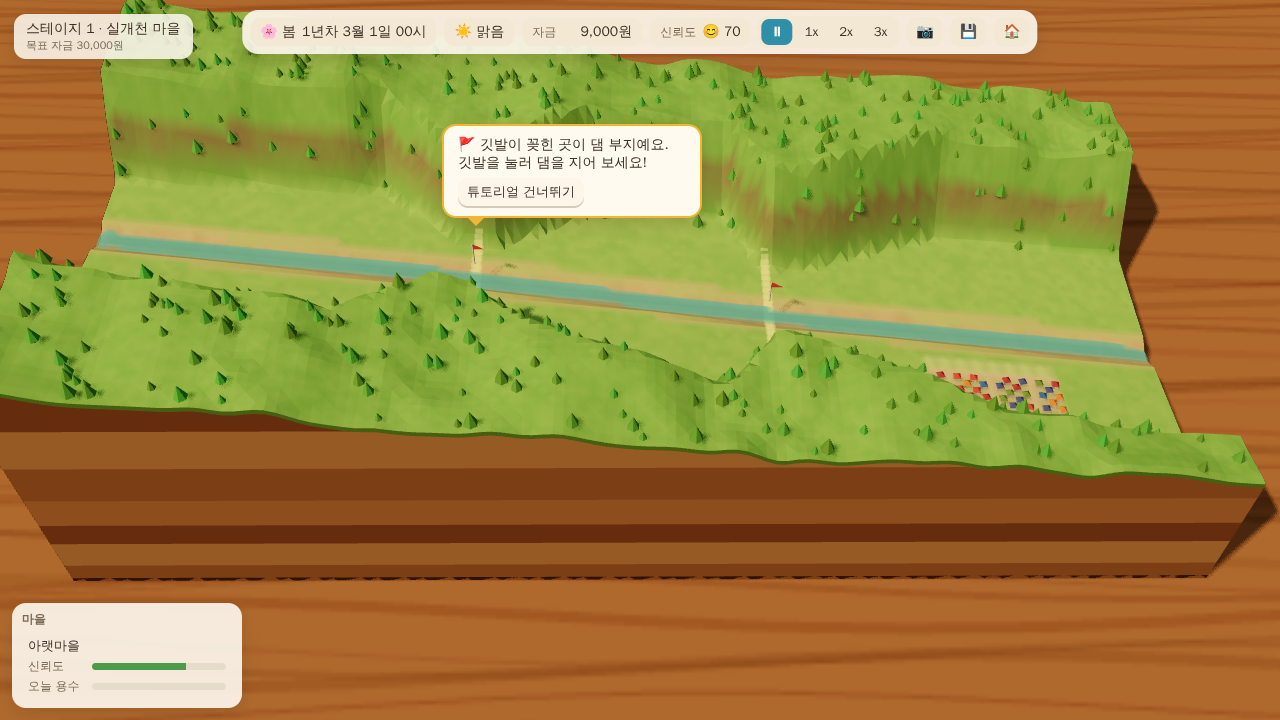
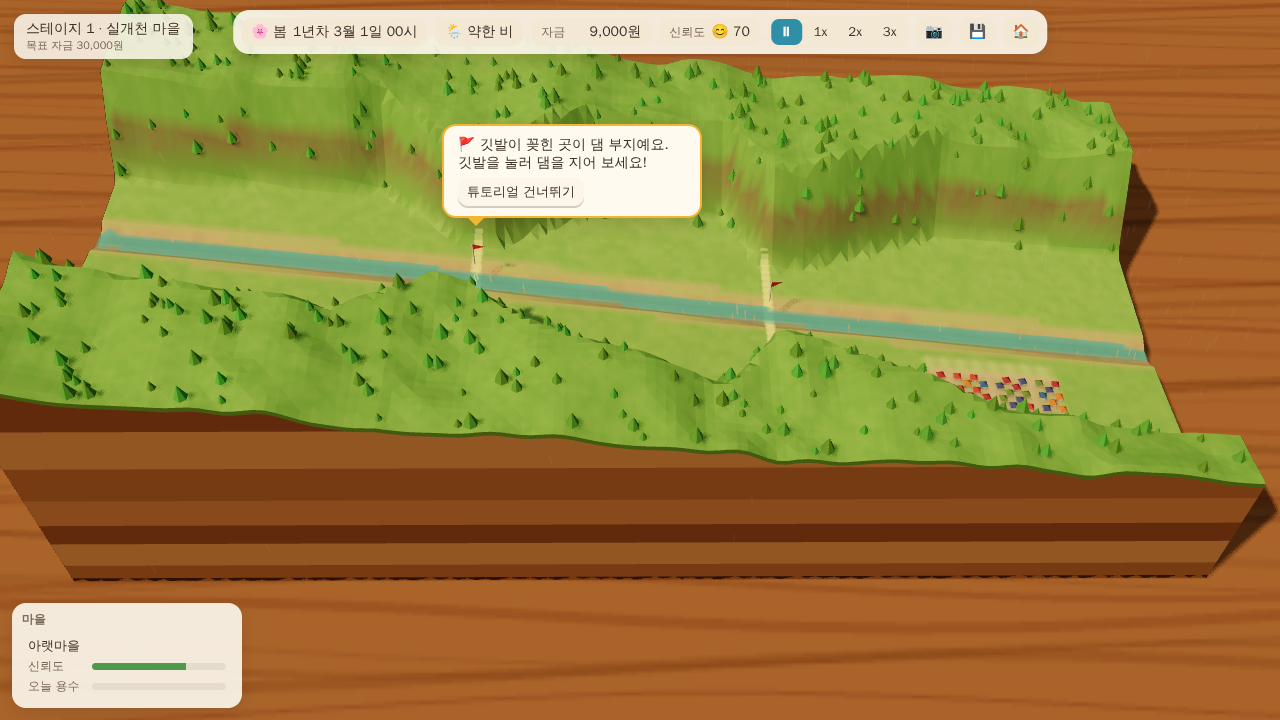
폰 가로 화면 대응과 스크린샷 E2E 안정화
작은 화면에서 튜토리얼 말풍선이 깃발을 덮어 탭이 막히던 문제 수정,
가로 폰에서 패널 오른쪽 배치·마을 상자 왼쪽 아래, 세로 화면 회전 안내,
노치 안전 영역. ?seed= 로 날씨 고정, skipToRain 날짜 경계 버그 수정.

Claude-Session: https://claude.ai/code/session_01UzzWfvSCn6frHNqekFv34D

Changed region(s): [[0.1562, 0.0, 0.8438, 0.0611]]

diff --git a/src/ui/styles.css b/src/ui/styles.css
@@ -15,7 +15,13 @@
 }
 * { box-sizing: border-box; }
 html, body { margin: 0; height: 100%; overflow: hidden; background: #efe3cf; overscroll-behavior: none; }
-#root { position: fixed; inset: 0; }
+#root {
+  position: fixed;
+  top: env(safe-area-inset-top, 0px);
+  right: env(safe-area-inset-right, 0px);
+  bottom: env(safe-area-inset-bottom, 0px);
+  left: env(safe-area-inset-left, 0px);
+}
 #scene { position: absolute; inset: 0; width: 100%; height: 100%; display: block; touch-action: none; }
 #ui { position: absolute; inset: 0; pointer-events: none; }
 #ui > * { pointer-events: auto; }
@@ -121,7 +127,17 @@ button { font: inherit; color: inherit; cursor: pointer; }
 }
 .bubble:after { content: ''; position: absolute; left: 24px; bottom: -10px; border: 8px solid transparent; border-top-color: var(--gold); border-bottom: 0; }
 .bubble.above-none:after { display: none; }
-.bubble button { margin-top: 6px; }
+.bubble.below:after { bottom: auto; top: -10px; border-top-color: transparent; border-bottom: 8px solid var(--gold); border-top: 0; }
+.bubble { pointer-events: none; }
+.bubble button { pointer-events: auto; }
+.rotate-hint { display: none; }
+@media (orientation: portrait) and (max-width: 700px) {
+  .rotate-hint {
+    display: flex; position: fixed; inset: 0; z-index: 50; align-items: center; justify-content: center;
+    background: rgba(40, 30, 20, 0.82); color: #fff; font-size: 22px; font-weight: 800; text-align: center; padding: 24px;
+  }
+}
+.bubble button { margin-top: 6px; white-space: nowrap; }
 
 /* ── 화면 (메뉴 등) ── */
 .screen { position: absolute; inset: 0; display: flex; align-items: center; justify-content: center; background: rgba(239, 227, 207, 0.35); }
@@ -176,4 +192,21 @@ button { font: inherit; color: inherit; cursor: pointer; }
   .alerts { top: 92px; width: 220px; }
   .stage-tag { display: none; }
   .towns { width: 180px; bottom: auto; top: 92px; left: auto; right: 8px; }
+}
+
+/* 가로로 눕힌 폰: 높이가 낮으니 패널을 오른쪽에 세우고 지도를 가리지 않게 */
+@media (orientation: landscape) and (max-height: 500px) {
+  .topbar { left: 8px; transform: none; max-width: calc(100vw - 300px); top: 6px; }
+  .panel { top: 6px; right: 6px; bottom: auto; transform: none; width: 270px; max-height: calc(100vh - 12px); padding: 10px; font-size: 13px; }
+  .panel h3 { font-size: 16px; }
+  .gauge { height: 80px; }
+  .card { padding: 7px; }
+  .towns { top: auto; bottom: 6px; left: 6px; right: auto; width: 170px; padding: 6px 8px; }
+  .alerts { top: 96px; left: 6px; width: 210px; }
+  .bubble { max-width: 230px; font-size: 13px; }
+  .sheet { padding: 16px 20px; max-height: 96vh; }
+  .title { font-size: 40px; }
+  .menu .btn { padding: 8px 14px; font-size: 15px; }
+  .stages { grid-template-columns: repeat(3, minmax(150px, 1fr)); }
+  .stage-card { min-height: 0; padding: 10px; }
 }

diff --git a/src/ui/app.ts b/src/ui/app.ts
@@ -141,6 +141,7 @@ export class App {
       <div class="towns" data-testid="towns"></div>
       <div class="panel hidden" data-testid="panel"></div>
       <div class="bubble hidden" data-testid="tutorial"></div>
+      <div class="rotate-hint">📱↻ 화면을 가로로 돌려 주세요</div>
       <div class="cine hidden"><div class="big"></div><div class="skip">아무 키나 누르면 건너뜁니다</div></div>
     </div>`);
     this.screenEl = el(`<div id="screens"></div>`);
@@ -303,7 +304,9 @@ export class App {
   }
 
   startStage(stageId: number, seed?: number): void {
-    const s = seed ?? (Date.now() & 0x7fffffff);
+    // ?seed=숫자 로 날씨를 고정할 수 있다 (테스트·재현용)
+    const fromUrl = Number(new URLSearchParams(location.search).get('seed'));
+    const s = seed ?? (Number.isFinite(fromUrl) && fromUrl > 0 ? fromUrl : Date.now() & 0x7fffffff);
     this.enterGame(new World(stageId, s));
     if (stageId === 1 && !this.progress.tutorialDone) this.advanceTutorial(0);
   }
@@ -748,8 +751,13 @@ export class App {
     if (this.tutorialStep === 0) {
       const p = this.diorama.siteScreenPos(this.world.sites[0].def.id);
       if (p) {
-        b.style.left = `${Math.max(8, p.x - 30)}px`;
-        b.style.top = `${Math.max(70, p.y - b.offsetHeight - 26)}px`;
+        const maxLeft = window.innerWidth - b.offsetWidth - 8;
+        b.style.left = `${Math.max(8, Math.min(maxLeft, p.x - 30))}px`;
+        const above = p.y - b.offsetHeight - 26;
+        // 위에 자리가 없으면 깃발 아래에 둔다 (말풍선이 깃발을 가리지 않게)
+        const below = above < 70;
+        b.style.top = `${below ? p.y + 40 : above}px`;
+        b.classList.toggle('below', below);
       }
       b.classList.remove('above-none');
     } else if (this.tutorialStep === 1) {
@@ -840,6 +848,7 @@ export class App {
       this.panelKey = key;
       this.panelEl.innerHTML = dam ? this.damPanelHtml(i) : this.sitePanelHtml(i);
       this.panelEl.classList.remove('hidden');
+      this.panelEl.scrollTop = 0;
     }
     const funds = w.economy.funds;
     if (!dam) {
@@ -1071,8 +1080,9 @@ export class App {
       skipToRain(minDay: number, minRain = 1.2) {
         const target = minDay * TIME.TICKS_PER_DAY;
         app.advance(Math.max(0, target - app.world.tick));
-        for (let k = 0; k < 120 && app.world.today.rain < minRain; k++) app.advance(TIME.TICKS_PER_DAY);
+        // 하루 중 6시에 그날 비를 확인하고, 아니면 다음 날 6시로 넘어간다
         app.advance(6);
+        for (let k = 0; k < 120 && app.world.today.rain < minRain; k++) app.advance(TIME.TICKS_PER_DAY);
         return app.world.today.rain;
       },
       selectSite(id: string | null) {

diff --git a/tests/e2e/screenshots.spec.ts b/tests/e2e/screenshots.spec.ts
@@ -8,7 +8,8 @@ test('6. 주요 화면 스크린샷 (메뉴·시작·건설·우기·붕괴·결
   const errors: string[] = [];
   await openGame(page, errors);
   await clearStorage(page);
-  await page.reload();
+  // 날씨를 고정해 장마철 비 오는 날이 항상 같은 날에 오게 한다
+  await page.goto('/?seed=7');
   await page.waitForFunction(() => (window as any).__game?.ready === true);
   await page.waitForTimeout(1500);
   await page.screenshot({ path: `${DIR}/01-main-menu.png` });

diff --git a/DECISIONS.md b/DECISIONS.md
@@ -48,3 +48,7 @@
 - [M8] 관광 최소 수위 35%→60% — 수문을 다 연 비움 봇이 관광 수입을 받던 문제
 - [M8] 목표 자금: 1스테이지 30,000 / 2스테이지 36,000 / 3스테이지 44,000 — 휴리스틱 봇 5시드 최저치 바로 아래, 비움·방치 봇 최고치보다 위
 - [M8] 휴리스틱 봇은 예보를 보지 않고, 월별 목표 수위 + 하류 마을이 잠기면 물 붙잡기 + 안전 방류량(2.4) 상한 + 월류를 겪은 댐만 방류량 업그레이드 + 상류 마을 여유가 1.5m 미만이면 용량 업그레이드 금지
+- [폰] 세로 화면에서는 "가로로 돌려 주세요" 안내를 덮음 — 지시서의 가로형 기준. 높이 500px 이하 가로 화면에서는 패널을 오른쪽에 세우고 마을 상자를 왼쪽 아래로
+- [폰] 튜토리얼 말풍선은 위에 자리가 없으면 깃발 아래에 두고, 버튼 밖 영역은 터치를 통과시킴 — 작은 화면에서 말풍선이 깃발을 덮어 탭이 막히던 문제
+- [폰] 화면 가장자리 컨트롤은 노치·홈 바 안전 영역 안쪽에 둠
+- [테스트] `?seed=숫자`로 날씨 시드를 고정할 수 있음 — 스크린샷 E2E가 무작위 날씨 때문에 가끔 실패하던 문제
